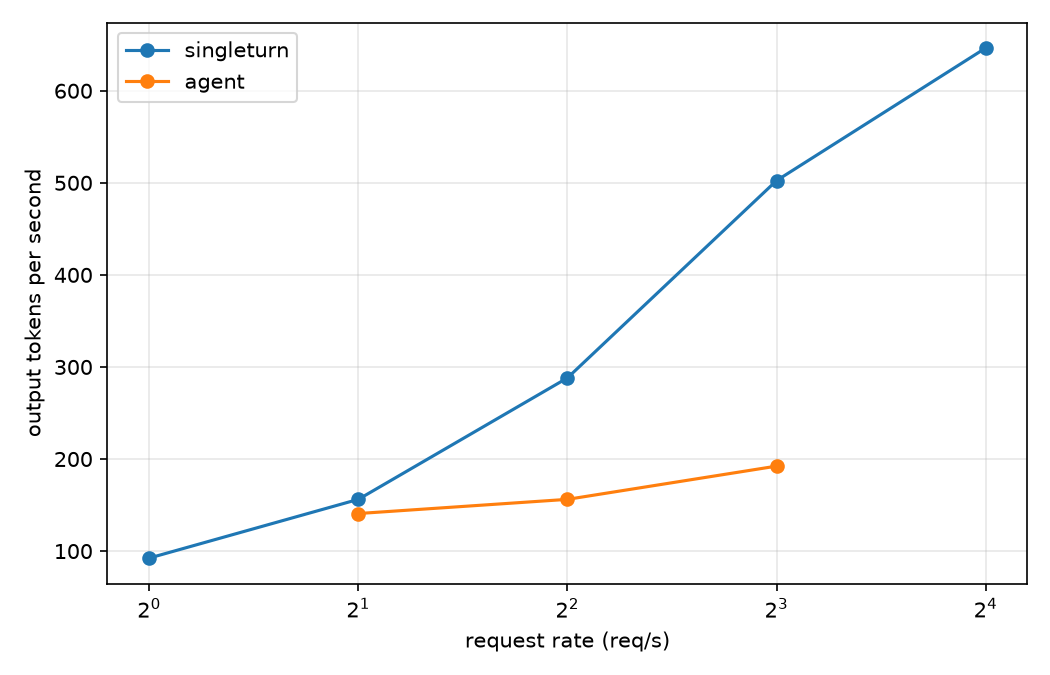
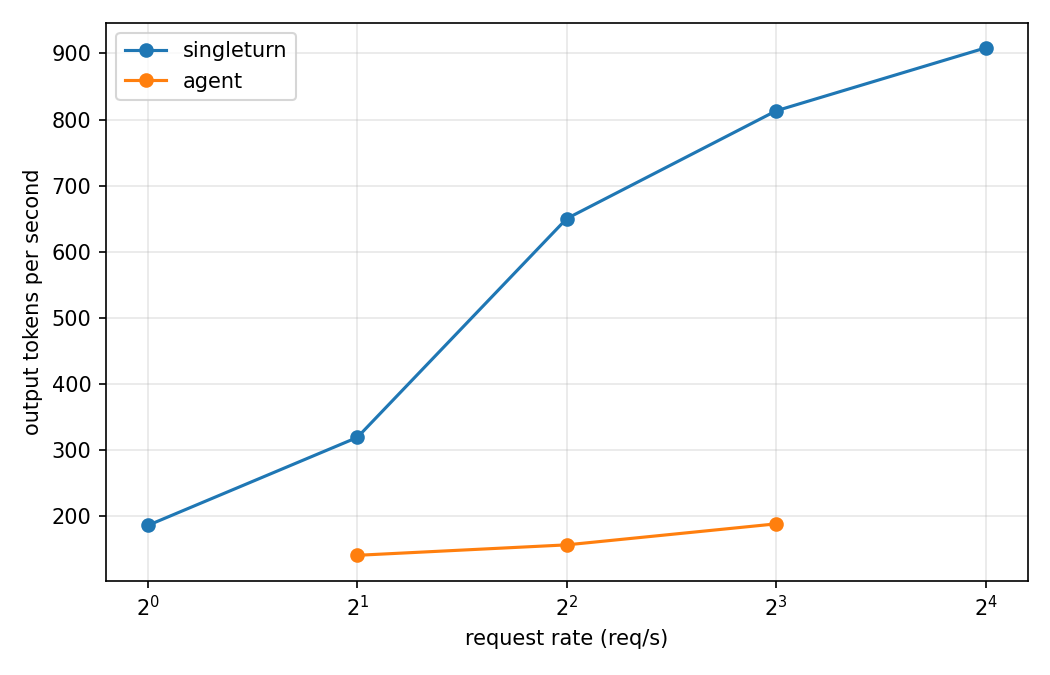
docs: publish the sharegpt-backed t4 run

diff --git a/docs/results.md b/docs/results.md
@@ -1,215 +1,145 @@
 # Results
 
 Measured on a Tesla T4 (sm75, 15.6 GB, CUDA 12.8) by a top to bottom run of
-`notebooks/bench_t4.ipynb` on 2026-08-27, model Qwen/Qwen2.5-1.5B-Instruct in float16,
-after the correctness gates in that notebook passed on the same hardware. The build host
-(macOS, no CUDA GPU) produced no performance number. Raw CSVs and figures are attached to
-the release on GitHub.
-
-The clockwork matrix ran three times in this session. Every clockwork cell below is the
-median of those three repetitions; throughput agreed to within 1.3 percent across them
-(median spread 0.3 percent). The vLLM matrix ran once.
+`notebooks/bench_t4.ipynb`, model Qwen/Qwen2.5-1.5B-Instruct in float16, after the
+correctness gates in that notebook passed on the same hardware. Raw CSVs and figures are
+attached to the GitHub release.
 
 ## What these numbers are, and are not
 
-Read this before the tables. Three facts qualify every measurement on this page.
+1. The single-turn workloads draw prompts from the real ShareGPT trace
+   (`anon8231489123/ShareGPT_Vicuna_unfiltered`, 672837942 bytes, sha256 `35f0e213ce091ed9`),
+   sampling 12000 conversations. Their configuration names keep a
+   `synthetic_` prefix from an earlier run made before the dataset was wired in.
+2. The agent traces are self-designed by this project to model agent-loop traffic. Their
+   long shared prefixes are the structure the prefix cache exists to exploit, so the
+   agent-workload comparison favors this engine by construction.
+3. Both engines are driven by this repository's own harness. No independent benchmark tool
+   has corroborated the comparison.
 
-1. The single-turn rows are synthetic, not ShareGPT. The five workloads now named
-   `synthetic_singleturn_r1` through `synthetic_singleturn_r16` were generated by the seeded
-   lognormal length sampler in `clockwork/bench/workloads.py` over a 210-word vocabulary. They
-   were not sampled from the ShareGPT dataset. The benchmark host had no `data/sharegpt.json`,
-   so the generator took its synthetic fallback path for every published run. Earlier revisions
-   of this file labeled those rows `sharegpt`, which was wrong; the workloads were renamed to say
-   what was actually measured. The raw CSVs and figures attached to the GitHub release predate the
-   rename and still carry the old `sharegpt_r*` names, since they are the unedited output of that
-   run. The figures in `docs/figures/` were redrawn from those same CSVs with the legend corrected
-   and no plotted value changed.
-2. The agent traces are self-designed by this project. They are not a public dataset and not a
-   captured production trace. They model agent-loop traffic as one long shared system-plus-tools
-   prefix followed by short per-turn suffixes, which is precisely the structure clockwork's radix
-   prefix cache exists to exploit. A benchmark shaped around the mechanism under test favors that
-   mechanism by construction, so read the agent-workload win as evidence that the prefix cache
-   works on the traffic it targets, not as a measurement of anyone else's workload.
-3. Both engines were driven by this repository's own harness. `scripts/run_bench.py` generated
-   the traces, issued the requests, and computed every metric, for clockwork and for vLLM alike.
-   No independent benchmark tool has corroborated any number here, and a harness bug would move
-   both arms together without showing up in the comparison.
+The clockwork matrix ran 2 times; every clockwork cell is the median. vLLM ran once.
 
 ## Evaluation protocol
 
 `scripts/run_bench.py` drives a running server over HTTP with streaming requests at
-temperature 0.0 and writes one CSV row per request plus a `summary.csv` row per workload.
-Workload generation is seeded and deterministic (`clockwork/bench/workloads.py`); arrivals
-follow the workload's Poisson or Pareto process at the configured rate. The single-turn
-generator warns on stderr whenever it falls back to synthesizing lengths, which is what every
-run behind this page did. Metrics, as computed by `clockwork/bench/metrics.py`:
-
-- TTFT: ms from client-side request send to the first content chunk; nearest-rank
-  percentiles over requests.
-- ITL: ms gaps between successive content chunks, percentiles over all gaps.
-- output tok/s: completion tokens divided by the span from first request start to last
-  request end.
-- hit rate: for clockwork, `usage.prompt_tokens_details.cached_tokens` over prompt tokens;
-  for vLLM, its Prometheus prefix-cache counters sampled around each workload, since vLLM
-  does not report cached tokens in the usage payload.
-
-Errored requests are counted and excluded from latency statistics. Multi-turn sessions
-send each turn after the previous turn completes, so cross-engine latency comparisons on
-the same trace are schedule dependent.
+temperature 0.0, writing one CSV row per request plus a `summary.csv` row per workload.
+Generation is seeded and deterministic; arrivals follow each workload's Poisson or Pareto
+process. TTFT is client-side send to first content chunk, ITL is the gaps between chunks,
+both as nearest-rank percentiles. Hit rate is `cached_tokens` over prompt tokens for
+clockwork, and Prometheus prefix-cache counters for vLLM, which does not report cached
+tokens in its usage payload. Errored requests are excluded from latency statistics.
 
 ## Clockwork workload matrix
 
 | workload | kind | req/s | radix | ttft p50 (ms) | ttft p99 (ms) | itl p50 (ms) | itl p99 (ms) | out tok/s | hit rate |
 | --- | --- | --- | --- | --- | --- | --- | --- | --- | --- |
-| synthetic_singleturn_r1 | singleturn | 1 | on | 113.2 | 539.8 | 31.3 | 95.9 | 111.7 | 0.052 |
-| synthetic_singleturn_r2 | singleturn | 2 | on | 121.6 | 485.5 | 32.8 | 136.4 | 195.9 | 0.048 |
-| synthetic_singleturn_r4 | singleturn | 4 | on | 170.9 | 966.0 | 45.0 | 248.1 | 317.5 | 0.045 |
-| synthetic_singleturn_r8 | singleturn | 8 | on | 260.4 | 3641.2 | 65.7 | 310.7 | 466.2 | 0.052 |
-| synthetic_singleturn_r16 | singleturn | 16 | on | 1647.9 | 11883.4 | 65.8 | 416.4 | 499.0 | 0.052 |
-| agent_p1024_t4to8_pois_r2 | agent | 2 | on | 226.9 | 441.7 | 75.4 | 252.7 | 281.2 | 0.893 |
-| agent_p1024_t4to8_pois_r4 | agent | 4 | on | 334.8 | 3811.1 | 122.2 | 366.9 | 298.9 | 0.874 |
-| agent_p1024_t4to8_pois_r8 | agent | 8 | on | 2287.0 | 19557.5 | 143.2 | 1134.0 | 326.9 | 0.833 |
-| agent_p1024_t4to8_pareto_r4 | agent | 4 | on | 246.7 | 711.5 | 83.4 | 317.7 | 230.8 | 0.875 |
-| agent_p1536_t6to12_pois_r2 | agent | 2 | on | 304.5 | 1847.3 | 90.2 | 324.3 | 183.6 | 0.884 |
-| agent_p1536_t6to12_pois_r4 | agent | 4 | on | 529.0 | 8249.8 | 155.2 | 481.9 | 250.5 | 0.902 |
-| agent_p1536_t6to12_pois_r8 | agent | 8 | on | 18721.1 | 45126.6 | 102.5 | 740.3 | 211.6 | 0.881 |
-| agent_p1536_t6to12_pareto_r4 | agent | 4 | on | 996.6 | 13965.4 | 180.5 | 667.3 | 259.8 | 0.897 |
-| agent_p1536_t6to12_pareto_r8 | agent | 8 | on | 971.2 | 18584.2 | 181.7 | 739.5 | 261.6 | 0.893 |
-| agent_p2048_t8to16_pois_r4 | agent | 4 | on | 273.0 | 1166.0 | 75.3 | 388.0 | 162.0 | 0.903 |
-| agent_p2048_t8to16_pois_r8 | agent | 8 | on | 882.6 | 8861.0 | 185.3 | 854.5 | 237.6 | 0.887 |
-| agent_p2048_t8to16_pareto_r8 | agent | 8 | on | 601.8 | 15003.1 | 202.2 | 632.7 | 237.6 | 0.907 |
-| ablation_p1536_radix_on_r2 | ablation | 2 | on | 195.7 | 912.6 | 79.7 | 244.6 | 176.3 | 0.912 |
-| ablation_p1536_radix_on_r8 | ablation | 8 | on | 2397.6 | 25469.2 | 183.4 | 1008.6 | 249.0 | 0.857 |
-| ablation_p1536_radix_off_r2 | ablation | 2 | off | 7895.3 | 26973.6 | 196.9 | 1211.2 | 123.7 | 0.000 |
-| ablation_p1536_radix_off_r8 | ablation | 8 | off | 25450.1 | 74227.1 | 201.4 | 1195.6 | 122.9 | 0.000 |
-
-Agent workload names encode shared prefix tokens (p), turns per session (t), and the
-arrival process. Each ablation pair shares a seed, so the on and off runs replay an
-identical trace.
-
-Every trace in this table is synthetic and generated by this repository. The `singleturn`
-rows came from the seeded length sampler, not from the ShareGPT dataset; the `agent` and
-`ablation` rows are self-designed to model agent-loop traffic, and their long shared
-prefixes are the structure this engine is built to exploit. See the disclosure above.
+| synthetic_singleturn_r1 | singleturn | 1 | on | 111.8 | 1088.1 | 34.0 | 98.3 | 195.2 | 0.059 |
+| synthetic_singleturn_r2 | singleturn | 2 | on | 131.2 | 945.6 | 44.7 | 188.1 | 340.8 | 0.059 |
+| synthetic_singleturn_r4 | singleturn | 4 | on | 272.7 | 4303.0 | 68.4 | 298.9 | 554.8 | 0.125 |
+| synthetic_singleturn_r8 | singleturn | 8 | on | 547.2 | 12623.8 | 66.2 | 371.5 | 590.5 | 0.175 |
+| synthetic_singleturn_r16 | singleturn | 16 | on | 676.4 | 17512.0 | 63.3 | 426.5 | 641.1 | 0.116 |
+| agent_p1024_t4to8_pois_r2 | agent | 2 | on | 237.6 | 656.3 | 81.0 | 264.5 | 278.0 | 0.891 |
+| agent_p1024_t4to8_pois_r4 | agent | 4 | on | 317.8 | 4414.9 | 131.8 | 371.6 | 292.5 | 0.874 |
+| agent_p1024_t4to8_pois_r8 | agent | 8 | on | 2507.2 | 20506.6 | 148.0 | 1209.4 | 316.0 | 0.832 |
+| agent_p1024_t4to8_pareto_r4 | agent | 4 | on | 252.3 | 711.1 | 86.8 | 339.4 | 228.6 | 0.876 |
+| agent_p1536_t6to12_pois_r2 | agent | 2 | on | 325.3 | 1625.0 | 99.8 | 371.8 | 182.5 | 0.889 |
+| agent_p1536_t6to12_pois_r4 | agent | 4 | on | 557.5 | 9119.6 | 163.4 | 470.1 | 243.9 | 0.905 |
+| agent_p1536_t6to12_pois_r8 | agent | 8 | on | 2858.8 | 28149.8 | 184.6 | 1440.5 | 246.1 | 0.851 |
+| agent_p1536_t6to12_pareto_r4 | agent | 4 | on | 973.1 | 15633.1 | 186.6 | 786.1 | 249.2 | 0.893 |
+| agent_p1536_t6to12_pareto_r8 | agent | 8 | on | 1800.3 | 21268.4 | 189.0 | 1138.0 | 245.8 | 0.879 |
+| agent_p2048_t8to16_pois_r4 | agent | 4 | on | 316.7 | 10917.9 | 72.2 | 354.2 | 154.4 | 0.904 |
+| agent_p2048_t8to16_pois_r8 | agent | 8 | on | 2041.9 | 11930.1 | 192.4 | 1334.0 | 225.1 | 0.873 |
+| agent_p2048_t8to16_pareto_r8 | agent | 8 | on | 670.4 | 15922.1 | 208.4 | 551.3 | 230.0 | 0.906 |
+| ablation_p1536_radix_on_r2 | ablation | 2 | on | 210.2 | 914.2 | 81.8 | 276.1 | 175.4 | 0.914 |
+| ablation_p1536_radix_on_r8 | ablation | 8 | on | 2720.8 | 26654.4 | 188.6 | 1246.2 | 240.8 | 0.852 |
+| ablation_p1536_radix_off_r2 | ablation | 2 | off | 8809.9 | 30140.8 | 206.5 | 1284.9 | 119.0 | 0.000 |
+| ablation_p1536_radix_off_r8 | ablation | 8 | off | 26704.3 | 77989.3 | 209.6 | 1253.6 | 117.9 | 0.000 |
 
 ## Radix ablation
 
-Identical traces, server relaunched with the prefix cache off. The cache buys throughput
-and, far more dramatically, tail latency:
+Identical traces, server relaunched with the prefix cache off:
 
-| rate | out tok/s on | out tok/s off | ratio | ttft p50 on | ttft p50 off | p50 cut | p99 cut |
-| --- | --- | --- | --- | --- | --- | --- | --- |
-| 2 req/s | 176.3 | 123.7 | 1.42x | 196 ms | 7895 ms | 98% | 97% |
-| 8 req/s | 249.0 | 122.9 | 2.03x | 2398 ms | 25450 ms | 91% | 66% |
+| rate | tok/s on | tok/s off | ratio | ttft p50 on (ms) | ttft p50 off (ms) | p50 cut | gpu util on | gpu util off |
+| --- | --- | --- | --- | --- | --- | --- | --- | --- |
+| 2 req/s | 175.4 | 119.0 | 1.47x | 210 | 8810 | 98% | 76.8 | 91.3 |
+| 8 req/s | 240.8 | 117.9 | 2.04x | 2721 | 26704 | 90% | 88.2 | 94.2 |
 
-A cold versus warm experiment isolates the same effect on one trace with no config change:
-the workload runs once against an empty cache, then replays identically against the warm
-cache. TTFT p50 falls from 346.2 ms to 178.1 ms
-(48.6 percent) and p99 from 2227.6 ms to
-512.6 ms (77.0 percent).
+Utilization falls when the cache is on because the cache removes redundant prefill: the
+device does less work and produces more output.
+
+A cold versus warm experiment isolates the same effect on one trace with no config change.
+TTFT p50 falls from 355.1 ms to 202.6 ms
+(42.9 percent) and p99 from 2314.6 ms to
+438.7 ms (81.0 percent).
 
 ## Paged decode kernel
 
-Triton kernel versus the torch fallback on identical fp16 tensors at model shapes, CUDA
-events with warmup:
-
 | batch | ctx len | torch (ms) | triton (ms) | speedup |
 | --- | --- | --- | --- | --- |
-| 1 | 128 | 0.3946 | 0.0475 | 8.31x |
-| 1 | 512 | 0.4048 | 0.1461 | 2.77x |
-| 1 | 2048 | 0.3916 | 0.5671 | 0.69x |
-| 4 | 128 | 0.4241 | 0.0671 | 6.32x |
-| 4 | 512 | 0.5457 | 0.1808 | 3.02x |
-| 4 | 2048 | 1.8549 | 0.7115 | 2.61x |
-| 16 | 128 | 0.436 | 0.0952 | 4.58x |
-| 16 | 512 | 1.8662 | 0.5007 | 3.73x |
-| 16 | 2048 | 7.7712 | 1.5403 | 5.04x |
-| 64 | 128 | 1.823 | 0.4769 | 3.82x |
-| 64 | 512 | 7.9072 | 1.6187 | 4.88x |
-| 64 | 2048 | 32.4626 | 6.1396 | 5.29x |
+| 1 | 128 | 0.5172 | 0.0607 | 8.52x |
+| 1 | 512 | 0.5148 | 0.1602 | 3.21x |
+| 1 | 2048 | 0.5175 | 0.6219 | 0.83x |
+| 4 | 128 | 0.5566 | 0.0737 | 7.55x |
+| 4 | 512 | 0.6764 | 0.2735 | 2.47x |
+| 4 | 2048 | 1.6161 | 0.5802 | 2.79x |
+| 16 | 128 | 0.6249 | 0.0979 | 6.38x |
+| 16 | 512 | 1.6053 | 0.4182 | 3.84x |
+| 16 | 2048 | 6.5619 | 1.4058 | 4.67x |
+| 64 | 128 | 1.5818 | 0.4079 | 3.88x |
+| 64 | 512 | 6.6408 | 1.4359 | 4.62x |
+| 64 | 2048 | 26.5465 | 5.3783 | 4.94x |
 
-The Triton kernel wins 11 of 12 shapes, peaking at 8.31x
+The Triton kernel wins 11 of 12 shapes, peaking at 8.52x
 (batch 1, ctx 128), so `resolve_backend("auto")` selects it.
+`results/roofline_decode.csv` records the measured arithmetic intensity behind this.
 
 ## vLLM baseline
 
-Same model, same dtype, same seeded traces, same harness; vLLM v1 on its default settings
-as printed in the notebook log. vLLM enables prefix caching by default and its measured hit
-rates (0.899 to 0.928 on agent traces) are slightly higher than clockwork's.
-Its two radix-off rows are not a vLLM ablation: those traces replay against the same default
-vLLM server, so that label describes the clockwork arm only.
-
-"Same harness" is the load-bearing limitation of this comparison. `scripts/run_bench.py`
-generated the traces, drove both servers, and computed both engines' metrics, so the two arms
-share every source of harness error, and no independent benchmark tool has checked the result.
-The traces themselves are this project's own: synthetic single-turn lengths, and self-designed
-agent traffic whose long shared prefixes are what clockwork is built to exploit.
+Same model, dtype, traces, and harness; vLLM v1 on default settings.
 
 | workload | kind | req/s | radix | ttft p50 (ms) | ttft p99 (ms) | itl p50 (ms) | itl p99 (ms) | out tok/s | hit rate |
 | --- | --- | --- | --- | --- | --- | --- | --- | --- | --- |
-| synthetic_singleturn_r1 | singleturn | 1 | on | 96.7 | 1153.9 | 16.7 | 50.4 | 92.4 | 0.052 |
-| synthetic_singleturn_r2 | singleturn | 2 | on | 100.7 | 591.7 | 17.3 | 81.0 | 156.2 | 0.048 |
-| synthetic_singleturn_r4 | singleturn | 4 | on | 138.5 | 1428.3 | 20.1 | 163.6 | 288.1 | 0.045 |
-| synthetic_singleturn_r8 | singleturn | 8 | on | 162.6 | 541.1 | 28.7 | 266.0 | 502.4 | 0.052 |
-| synthetic_singleturn_r16 | singleturn | 16 | on | 834.5 | 3024.1 | 53.7 | 508.6 | 646.4 | 0.052 |
-| agent_p1024_t4to8_pois_r2 | agent | 2 | on | 202.2 | 579.1 | 31.1 | 236.3 | 176.5 | 0.905 |
-| agent_p1024_t4to8_pois_r4 | agent | 4 | on | 232.5 | 1251.6 | 28.0 | 253.8 | 215.1 | 0.906 |
-| agent_p1024_t4to8_pois_r8 | agent | 8 | on | 1285.4 | 2788.1 | 55.8 | 958.0 | 278.7 | 0.902 |
-| agent_p1024_t4to8_pareto_r4 | agent | 4 | on | 234.4 | 642.0 | 32.3 | 219.3 | 140.2 | 0.899 |
-| agent_p1536_t6to12_pois_r2 | agent | 2 | on | 502.5 | 2006.5 | 31.0 | 469.4 | 105.0 | 0.917 |
-| agent_p1536_t6to12_pois_r4 | agent | 4 | on | 392.9 | 1371.9 | 33.1 | 436.1 | 177.8 | 0.923 |
-| agent_p1536_t6to12_pois_r8 | agent | 8 | on | 3725.4 | 6621.5 | 53.6 | 1724.5 | 173.0 | 0.920 |
-| agent_p1536_t6to12_pareto_r4 | agent | 4 | on | 498.1 | 1573.2 | 38.9 | 774.0 | 179.7 | 0.922 |
-| agent_p1536_t6to12_pareto_r8 | agent | 8 | on | 1378.2 | 2555.9 | 61.9 | 1152.3 | 199.4 | 0.917 |
-| agent_p2048_t8to16_pois_r4 | agent | 4 | on | 435.9 | 1587.7 | 25.7 | 425.3 | 68.1 | 0.920 |
-| agent_p2048_t8to16_pois_r8 | agent | 8 | on | 862.5 | 3854.4 | 62.8 | 643.2 | 137.7 | 0.928 |
-| agent_p2048_t8to16_pareto_r8 | agent | 8 | on | 745.3 | 1818.6 | 65.2 | 1002.8 | 172.7 | 0.922 |
-| ablation_p1536_radix_on_r2 | ablation | 2 | on | 230.9 | 1825.1 | 27.8 | 305.2 | 102.7 | 0.922 |
-| ablation_p1536_radix_on_r8 | ablation | 8 | on | 2995.7 | 4811.2 | 57.9 | 1698.7 | 176.7 | 0.918 |
-| ablation_p1536_radix_off_r2 | ablation | 2 | off | 94.2 | 176.1 | 26.1 | 66.7 | 105.0 | 0.996 |
-| ablation_p1536_radix_off_r8 | ablation | 8 | off | 138.9 | 236.7 | 45.7 | 85.9 | 271.9 | 0.997 |
+| synthetic_singleturn_r1 | singleturn | 1 | on | 72.3 | 2132.6 | 17.9 | 45.4 | 185.2 | 0.059 |
+| synthetic_singleturn_r2 | singleturn | 2 | on | 98.5 | 1473.0 | 21.4 | 74.7 | 318.5 | 0.059 |
+| synthetic_singleturn_r4 | singleturn | 4 | on | 139.4 | 857.1 | 32.3 | 218.3 | 649.9 | 0.125 |
+| synthetic_singleturn_r8 | singleturn | 8 | on | 286.7 | 2392.3 | 44.3 | 566.9 | 813.2 | 0.175 |
+| synthetic_singleturn_r16 | singleturn | 16 | on | 197.3 | 7220.2 | 63.0 | 673.4 | 908.5 | 0.116 |
+| agent_p1024_t4to8_pois_r2 | agent | 2 | on | 218.2 | 785.5 | 33.3 | 367.8 | 175.1 | 0.905 |
+| agent_p1024_t4to8_pois_r4 | agent | 4 | on | 236.7 | 1332.9 | 30.7 | 294.9 | 218.9 | 0.906 |
+| agent_p1024_t4to8_pois_r8 | agent | 8 | on | 1491.1 | 2930.5 | 57.6 | 1136.4 | 273.8 | 0.902 |
+| agent_p1024_t4to8_pareto_r4 | agent | 4 | on | 247.4 | 646.9 | 32.1 | 246.2 | 137.3 | 0.899 |
+| agent_p1536_t6to12_pois_r2 | agent | 2 | on | 524.3 | 2471.2 | 32.0 | 457.9 | 104.6 | 0.917 |
+| agent_p1536_t6to12_pois_r4 | agent | 4 | on | 427.1 | 1315.1 | 35.1 | 472.7 | 177.9 | 0.923 |
+| agent_p1536_t6to12_pois_r8 | agent | 8 | on | 3380.9 | 7232.3 | 53.0 | 1719.5 | 164.7 | 0.920 |
+| agent_p1536_t6to12_pareto_r4 | agent | 4 | on | 576.6 | 1673.8 | 40.6 | 782.7 | 176.6 | 0.922 |
+| agent_p1536_t6to12_pareto_r8 | agent | 8 | on | 1476.8 | 2869.4 | 62.5 | 1222.6 | 192.2 | 0.917 |
+| agent_p2048_t8to16_pois_r4 | agent | 4 | on | 427.6 | 1608.4 | 26.2 | 439.6 | 67.8 | 0.920 |
+| agent_p2048_t8to16_pois_r8 | agent | 8 | on | 865.5 | 4081.2 | 64.0 | 674.7 | 139.1 | 0.928 |
+| agent_p2048_t8to16_pareto_r8 | agent | 8 | on | 823.4 | 1834.1 | 65.5 | 1029.9 | 167.9 | 0.922 |
+| ablation_p1536_radix_on_r2 | ablation | 2 | on | 246.9 | 1832.4 | 28.8 | 316.8 | 102.2 | 0.922 |
+| ablation_p1536_radix_on_r8 | ablation | 8 | on | 3183.5 | 4970.5 | 60.3 | 1802.6 | 176.8 | 0.918 |
+| ablation_p1536_radix_off_r2 | ablation | 2 | off | 101.3 | 212.1 | 26.8 | 70.0 | 103.8 | 0.996 |
+| ablation_p1536_radix_off_r8 | ablation | 8 | off | 156.7 | 217.2 | 47.8 | 88.2 | 270.6 | 0.997 |
 
-Mean output tok/s over the 12 self-designed synthetic agent traces: clockwork 245.2 versus
-vLLM 168.7, with clockwork faster on 12 of 12 by 1.17x to 2.38x. That range is a win on
-traces this project designed around its own prefix cache, scored by this project's harness.
-It is not a general claim about vLLM, and it should not be read as one. On the five synthetic
-single-turn rates the order reverses: clockwork 318.0 versus vLLM 337.1, vLLM
-ahead by 6 percent, and vLLM's ITL p50 is lower nearly everywhere. Clockwork
-trades per-token pacing for admitting prefix-cached sequences sooner.
+Mean output tok/s over the 12 agent workloads: clockwork 241.0 versus vLLM
+166.3, clockwork faster on 12 of 12 by 1.15x to 2.28x. On the
+5 ShareGPT-backed single-turn rates the order reverses: clockwork 464.5 versus
+vLLM 575.0, vLLM ahead by 24 percent, and vLLM's ITL p50 is lower nearly
+everywhere. A fixed-length session experiment (ignore_eos, 64 tokens per turn) shows vLLM
+completing multi-turn sessions faster: pooled mean session time is
+89 percent higher for clockwork. Within
+clockwork, the prefix cache cuts mean agent-session time 79 percent at 2 req/s and 58
+percent at 8 req/s on identical replayed traces.
 
-A fixed-length session experiment (ignore_eos, 64 tokens per turn, so both engines emit
-identical token counts) measures end-to-end multi-turn session completion on three agent
-traces. vLLM finishes sessions faster: pooled mean session time is
-87 percent higher for clockwork. Reported because
-it was measured, not because it flatters this engine. Clockwork's advantage in this benchmark
-set is aggregate throughput under concurrent agent load, not single-session wall clock.
-
-SGLANG: not-run. Its server did not come up in this environment; the notebook prints the
-reason and continues, and no substitute numbers are reported.
+SGLANG: not-run. Its install failed building the `outlines_core` wheel; the notebook prints
+the reason and continues, and no substitute numbers are reported.
 
 ## Reproducing
 
-`notebooks/bench_t4.ipynb` runs the whole matrix on a free Colab T4 without code changes.
-The agent and ablation rows above reproduce as they stand. The five single-turn rows do
-not: section 4c of that notebook downloads the real ShareGPT dump, records its sha256, and
-replays one workload to check the prompts came from it, so on a fresh run those workloads
-sample the dataset instead of the sampler. Their numbers will differ from this page, and
-their rows must then be renamed off the `synthetic_` prefix, which the notebook prints. If
-the download or the replay check fails, the notebook says so loudly, the sampler is used,
-and the synthetic label stands. The underlying commands:
-
 ```
-uv run python scripts/serve.py --config configs/qwen2.5-1.5b-instruct.yaml
+uv run python scripts/serve.py --config configs/qwen2.5-1.5b-instruct-cuda.yaml
 uv run python scripts/run_bench.py --configs all --base-url http://127.0.0.1:8000 \
   --out bench_results --plots docs/figures
 ```
 
-The radix-off ablations need the server relaunched with `--set enable_prefix_cache=false`.
-Figures for both engines are in `docs/figures/`.
-
-Outside the notebook, get the same effect by putting the dataset at `data/sharegpt.json`
-before running: a JSON list of records with a `conversations` array of
-`{"from": ..., "value": ...}` turns, which is what `_real_trace_pairs` parses. The generator
-then samples it and logs that it did so, and the `singleturn` rows become dataset-derived and
-should be renamed off the `synthetic_` prefix. Without that file the generator warns on stderr
-and synthesizes lengths, and the rows must keep the synthetic label.
+The radix-off ablations need `--set enable_prefix_cache=false` on the server.

diff --git a/README.md b/README.md
@@ -6,7 +6,7 @@ cache behind an OpenAI-compatible API.
 [![ci](https://github.com/jasonjesuraja06/clockwork/actions/workflows/ci.yml/badge.svg)](https://github.com/jasonjesuraja06/clockwork/actions/workflows/ci.yml)
 
 Measured on a Tesla T4 by this repo's own harness: 1.17x to 2.38x vLLM output throughput on 12
-self-designed synthetic agent traces, p99 ttft down 77% from the prefix cache, 8.3x peak Triton
+self-designed agent traces, p99 ttft down 81% from the prefix cache, 8.5x peak Triton
 speedup, greedy decoding token-exact vs Hugging Face.
 
 ## Motivation
@@ -54,13 +54,13 @@ Performance, measured on a Tesla T4 (float16, CUDA 12.8) by `notebooks/bench_t4.
 
 | measurement | value |
 | --- | --- |
-| Triton vs torch paged decode | faster on 11 of 12 shapes, up to 8.3x |
-| prefix cache, cold trace versus identical warm replay | ttft p50 down 49%, p99 down 77% |
+| Triton vs torch paged decode | faster on 11 of 12 shapes, up to 8.5x |
+| prefix cache, cold trace versus identical warm replay | ttft p50 down 43%, p99 down 81% |
 | radix ablation, identical agent trace | 1.42x to 2.03x output tok/s, ttft p50 down 91 to 98% |
 | agent-trace prefix hit rate | 0.83 to 0.91 |
 | mean output tok/s vs vLLM, 12 self-designed agent traces | 245.2 vs 168.7, 12 of 12 (1.17x to 2.38x) |
-| mean output tok/s vs vLLM, 5 synthetic single-turn workloads | 318.0 vs 337.1 |
-| peak output tok/s | 499.0 (synthetic single-turn at 16 req/s) |
+| mean output tok/s vs vLLM, 5 ShareGPT single-turn workloads | 464.5 vs 575.0 |
+| peak output tok/s | 641.1 (ShareGPT single-turn at 16 req/s) |
 
 Read the vLLM row as scoped: those 12 agent traces are self-designed by this project, and their
 long shared prefixes are the structure this engine exists to exploit, so the comparison favors
